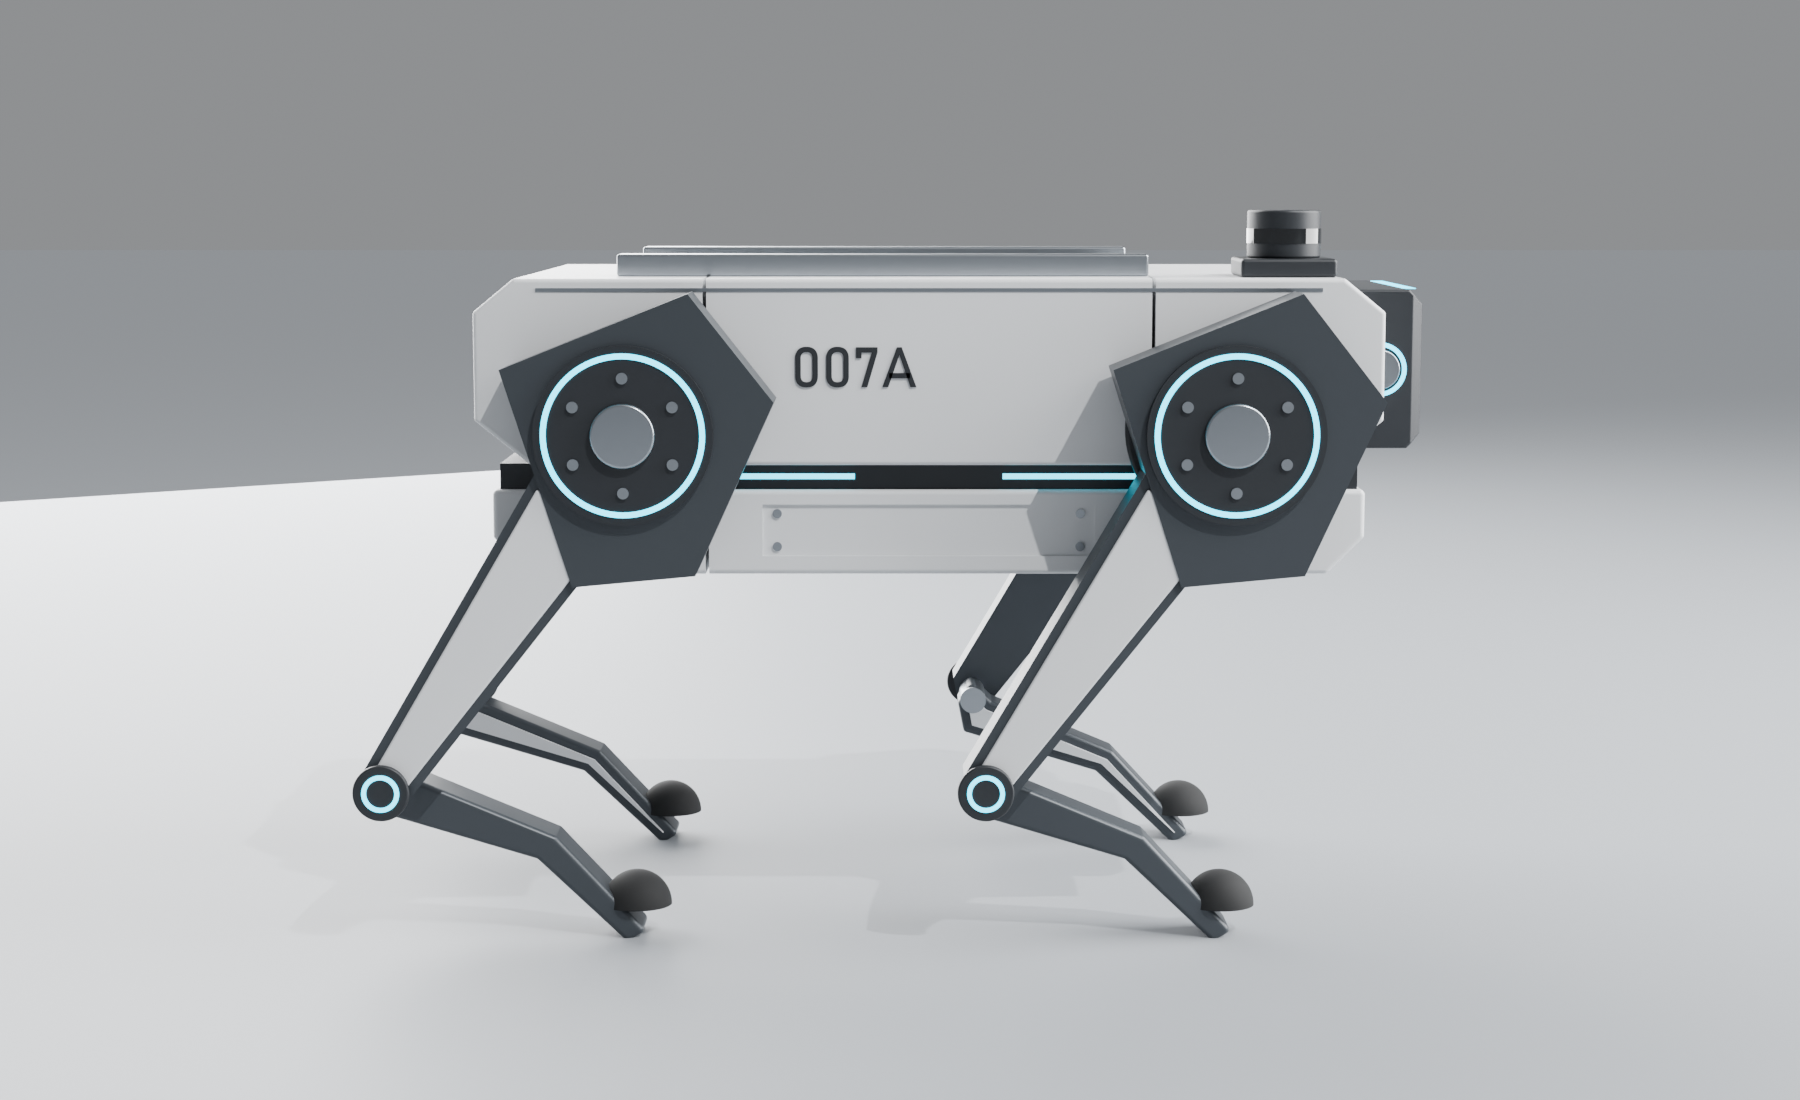
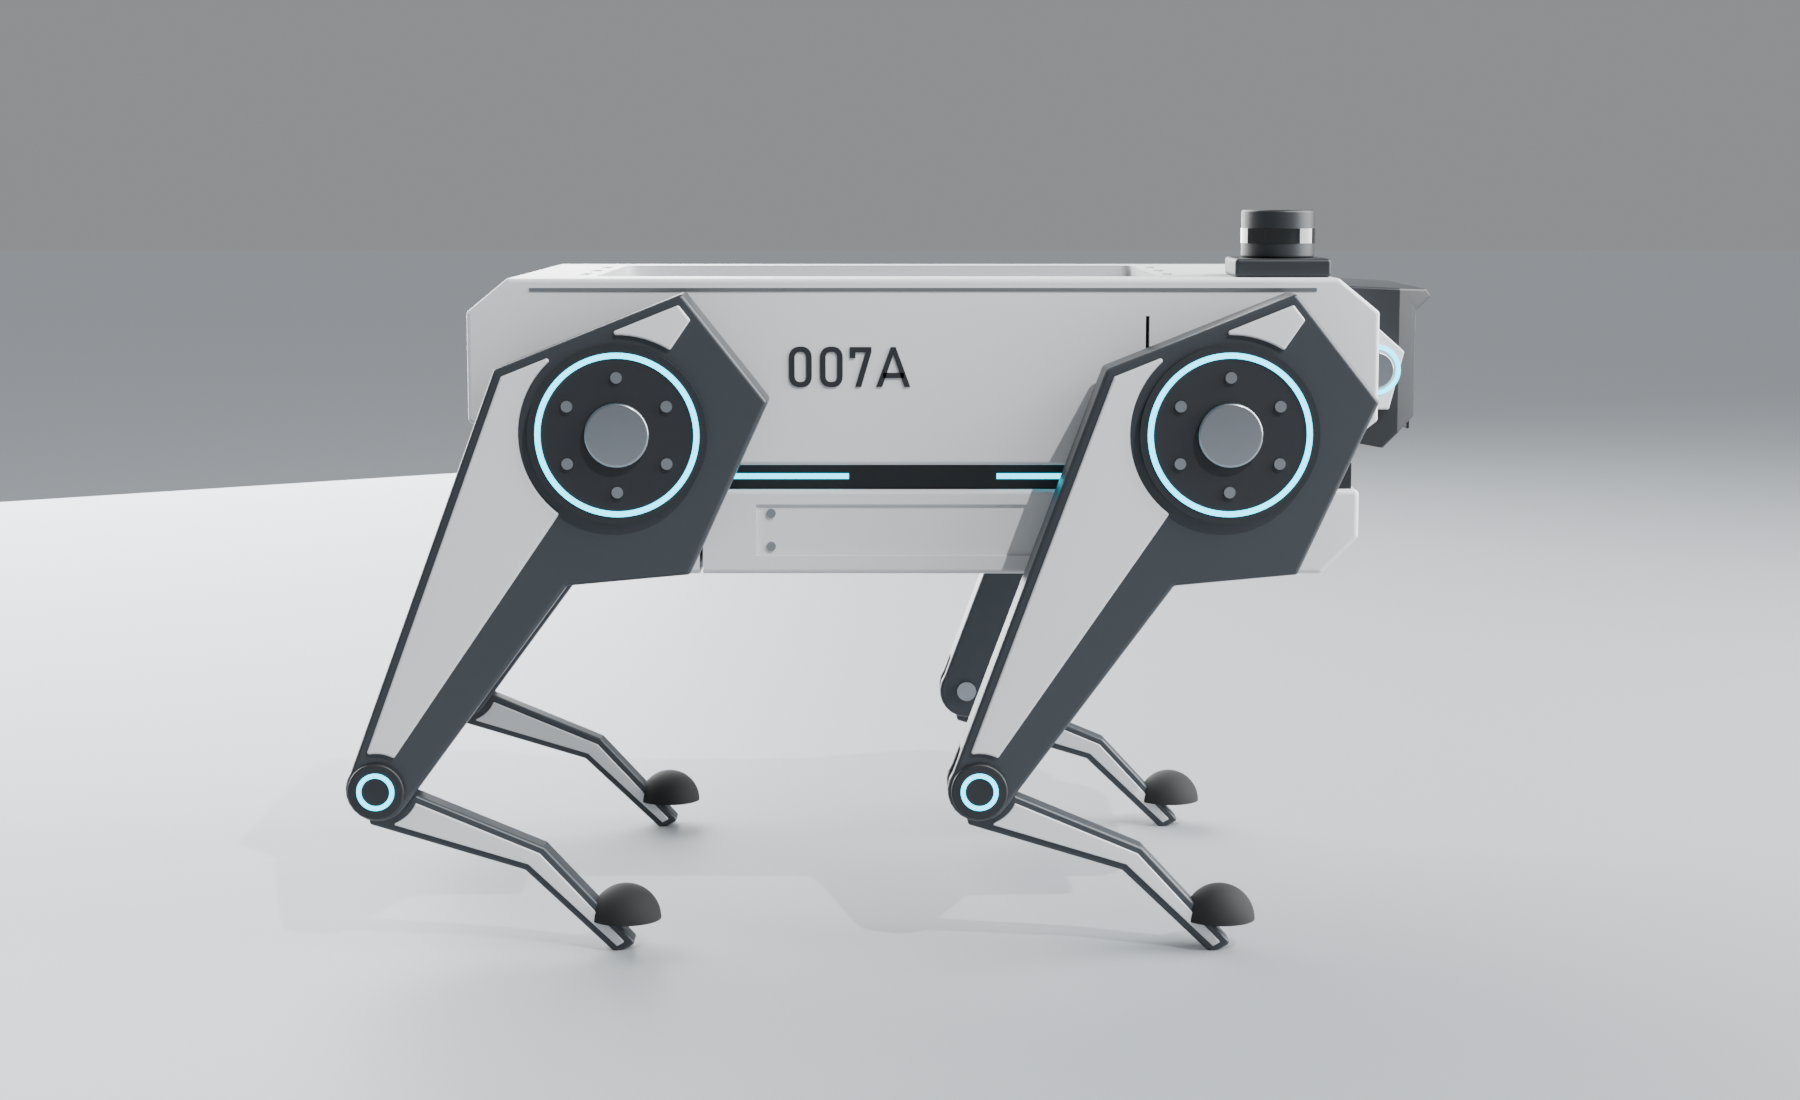
007A 外观 v3：楔形大腿照草图、上浅下深分色；小腿和大腿同一个面（膝盖叉口）；头加眉檐、收下巴、两侧耳鳍；背上一体货台

Changed region(s): [[0.1867, 0.2164, 0.6533, 0.8655], [0.4978, 0.1855, 0.8089, 0.8655]]

diff --git a/007a/model.py b/007a/model.py
@@ -37,7 +37,7 @@ Z0 = HIP_Z - BODY_H / 2                          # 机身底离地
 TUB_TOP, WAIST_TOP = Z0 + 46, Z0 + 60            # 下层底盘顶、黑腰顶（上层外壳 100 高，屏幕整块嵌进去）
 TOP = Z0 + BODY_H
 HUB_SK = [(-35, -33), (28, -33), (33, 38), (-4, 49), (-47, 8)]
-WR, WK = 30.0, 14.0                              # 大腿：根部半宽、膝那头半宽（v2：收窄，用户嫌大腿太大）
+RK = 17.0                                        # 大腿膝那头的圆头半径
 
 
 def _hub_scale():
@@ -54,7 +54,7 @@ HUB_F = _hub_scale()
 KNEE_TOP = [(303, 234), (311, 245), (313, 262)]
 KNEE_BOT = [(296, 266)]
 SHANK_SK = [(310, 250), (317, 265), (311, 285), (218, 303), (160, 348), (149, 340), (208, 288), (294, 262)]
-T_THIGH, T_SHANK = 38.0, 30.0
+T_THIGH, T_SHANK = 34.0, 16.0                    # v3：小腿插在大腿膝盖的叉口里，两段在同一个面上
 LEG_Y = W2 + 8 + T_THIGH / 2                     # 大腿中面离中线
 
 
@@ -114,30 +114,34 @@ def _rot(p, r):
 
 
 def leg_2d(foot=(0.0, -HIP_Z)):
-    """返回 (髋盘 多边形, 大腿臂 多边形, 小腿 多边形, 膝, 脚)。草图里膝朝右，这里膝朝后（-x），所以先把草图左右镜像。"""
+    """返回 (髋盘+大腿 多边形, 小腿 多边形, 膝, 脚)。草图里膝朝右，这里膝朝后（-x），所以先把草图左右镜像。"""
     knee = leg_ik(foot)
     sk = lambda p, o: (-(p[0] - o[0]), -(p[1] - o[1]))           # 草图 → 镜像 + y 朝上
     a_sk = math.atan2(*reversed(sk(K0, H0)))
     r = math.atan2(knee[1], knee[0]) - a_sk
-    hub = [_rot((-x * HUB_F, -y * HUB_F), r) for x, y in HUB_SK][::-1]
-    ang = math.atan2(knee[1], knee[0])                             # v2：大腿是一条从髋盘中心收到膝的臂，和髋盘一体
-    nx, nz = -math.sin(ang), math.cos(ang)
-    ux, uz = math.cos(ang), math.sin(ang)
+    hub = [_rot((-x * HUB_F, -y * HUB_F), r) for x, y in HUB_SK]
     kx, kz = knee
-    arm = [(nx * WR, nz * WR), (kx + nx * WK, kz + nz * WK), (kx + ux * WK, kz + uz * WK),
-           (kx - nx * WK, kz - nz * WK), (-nx * WR, -nz * WR)]
+    ang = math.atan2(kz, kx)
+    ux, uz = math.cos(ang), math.sin(ang)
+    nx, nz = -uz, ux
+    # v3：照草图的楔形大腿：上沿从髋盘右上角直通到膝，下沿从髋盘下面的缺口收到膝；膝那头是半圆（转轴在圆心）
+    sgn = 1 if (hub[1][0] * nx + hub[1][1] * nz) > 0 else -1      # 草图镜像后，髋盘第 2 个点在大腿哪一侧（那一侧是“上沿”）
+    f_top, f_u = math.atan2(sgn * nz, sgn * nx), math.atan2(uz, ux)
+    d = 1 if math.sin(f_u - f_top) > 0 else -1                     # 从上沿那侧绕过膝的外头，转到下沿那侧
+    arc = [(kx + RK * math.cos(f_top + d * math.pi * i / 12), kz + RK * math.sin(f_top + d * math.pi * i / 12)) for i in range(13)]
+    thigh = hub[:2] + arc + hub[2:]
 
     def at_knee(pts, rr):
         return [tuple(k + d for k, d in zip(knee, _rot((sk(p, K0)[0] * S, sk(p, K0)[1] * S), rr))) for p in pts]
     a_sh = math.atan2(*reversed(sk(T0, K0)))
     a_now = math.atan2(foot[1] - knee[1], foot[0] - knee[0])
     shank = at_knee(SHANK_SK, a_now - a_sh)
-    return hub, arm, shank[::-1], knee, foot
+    return thigh, shank, knee, foot
 
 
 def leg_parts(fx, sy):
     """一条腿（fx = 1 前 / -1 后，sy = 1 左 / -1 右）的零件，已放到机身上。"""
-    hub, arm, shank, knee, foot = leg_2d()
+    thigh, shank, knee, foot = leg_2d()
     hx, hz = fx * HIP_X, HIP_Z
     P = []
 
@@ -147,11 +151,21 @@ def leg_parts(fx, sy):
 
     yc = LEG_Y                                                     # 大腿中面（左边的腿；右边镜像）
     y_out = yc + T_THIGH / 2
-    th = prism_xz(hub, yc - T_THIGH / 2, y_out).fuse(prism_xz(arm, yc - T_THIGH / 2 + 3, y_out - 3)).clean()
-    th = soft(th, 3.0)
+    kx, kz = knee
+    th = prism_xz(thigh, yc - T_THIGH / 2, y_out)
+    slot = cq.Solid.makeCylinder(RK + 2, T_SHANK + 2, V(kx, yc - T_SHANK / 2 - 1, kz), V(0, 1, 0))   # 膝盖叉口：小腿插进去
+    th = soft(th.cut(slot.fuse(prism_xz(shank, yc - T_SHANK / 2 - 1, yc + T_SHANK / 2 + 1))), 2.5)
     P.append(("大腿", place(th, 0), "skel"))
-    cover = prism_xz_offset(arm, -5.0, y_out - 3.5, y_out - 0.5)      # 大腿臂的浅色外盖板（髋盘那段让出来）
-    cover = cover.cut(cyl_y(0, 0, MOTOR_D + 14, y_out - 5, y_out + 2))
+    # 浅色盖板只在大腿上半（沿 髋→膝 中线分开）：上浅下深，看着细、有动势
+    ang = math.atan2(kz, kx)
+    nx, nz = -math.sin(ang), math.cos(ang)
+    up = 1 if nz > 0 else -1
+    half = [(nx * up * 400 + math.cos(ang) * -400, nz * up * 400 + math.sin(ang) * -400),
+            (nx * up * 400 + math.cos(ang) * 400, nz * up * 400 + math.sin(ang) * 400),
+            (math.cos(ang) * 400 + nx * up * 2, math.sin(ang) * 400 + nz * up * 2),
+            (-math.cos(ang) * 400 + nx * up * 2, -math.sin(ang) * 400 + nz * up * 2)]
+    cover = prism_xz_offset(thigh, -5.0, y_out - 0.5, y_out + 2.0).intersect(prism_xz(half, y_out - 2, y_out + 4))
+    cover = cover.cut(cyl_y(0, 0, MOTOR_D + 12, y_out - 5, y_out + 6)).cut(cyl_y(kx, kz, 2 * RK + 6, y_out - 5, y_out + 6))
     P.append(("大腿外盖板", place(soft(cover, 1.2), 0), "shell"))
     # 髋盘外面：深色电机盖 + 青色光环 + 中心盖 + 6 颗螺栓
     P.append(("髋盖", place(cyl_y(0, 0, MOTOR_D + 2, y_out, y_out + 4), 0), "skel_dk"))
@@ -160,14 +174,14 @@ def leg_parts(fx, sy):
     for k in range(6):
         a = math.radians(30 + 60 * k)
         P.append((f"髋螺栓{k}", place(cyl_y(30 * math.cos(a), 30 * math.sin(a), 6, y_out + 4, y_out + 5.5), 0), "metal"))
-    # 小腿在大腿里侧；膝盖两面盖帽
-    ys0 = yc - T_THIGH / 2 - T_SHANK - 1
-    sh = soft(prism_xz(shank, ys0, ys0 + T_SHANK), 3.0)
+    # 小腿：和大腿同一个中面，插在叉口里；两面各贴一条浅色盖板
+    ys0 = yc - T_SHANK / 2
+    sh = soft(prism_xz(shank, ys0, ys0 + T_SHANK), 2.0)
     P.append(("小腿", place(sh, 0), "skel"))
-    sc = prism_xz_offset(shank, -6.0, ys0 - 2.5, ys0 + 0.5)          # 小腿里侧（朝机身）也贴一条浅色盖板
-    P.append(("小腿盖板", place(soft(sc, 1.0), 0), "shell"))
-    kx, kz = knee
-    P.append(("膝轴", place(cyl_y(kx, kz, 16, ys0 - 3, y_out + 3), 0), "metal"))
+    for y0, y1 in ((ys0 - 1.5, ys0 + 0.5), (ys0 + T_SHANK - 0.5, ys0 + T_SHANK + 1.5)):
+        sc = prism_xz_offset(shank, -4.0, y0, y1).cut(cyl_y(kx, kz, 2 * RK + 8, y0 - 1, y1 + 1))
+        P.append((f"小腿盖板{y0:.0f}", place(soft(sc, 0.6), 0), "shell"))
+    P.append(("膝轴", place(cyl_y(kx, kz, 12, yc - T_THIGH / 2 - 2, y_out + 3), 0), "metal"))
     P.append(("膝盖帽外", place(soft(cyl_y(kx, kz, 30, y_out, y_out + 4), 1.2), 0), "skel_dk"))
     P.append(("膝光点", place(ring_y(kx, kz, 20, 15, y_out + 4, y_out + 4.6), 0), "cyan"))
     fxp, fzp = foot
@@ -206,8 +220,9 @@ def body_parts():
                  (-L2 + 18, TOP), (-L2 - 4, TOP - 18), (-L2 - 4, WAIST_TOP + 24)]
     slab = prism_xz(slab_prof, -W2 - 2, W2 + 2)
     slab = soft(slab, 2.5)
-    for x in (-L2 + 120, L2 - 120):
-        slab = slab.cut(box(x - SEAM / 2, x + SEAM / 2, -W2 - 5, W2 + 5, WAIST_TOP - 1, TOP + 1))
+    for x in (-L2 + 120, L2 - 120):                                # 分缝只在两侧和前后，顶上留整块（货台是一体的）
+        for sy in (1, -1):
+            slab = slab.cut(box(x - SEAM / 2, x + SEAM / 2, *sorted((sy * (W2 - 30), sy * (W2 + 5))), WAIST_TOP - 1, TOP - 20))
     # 前脸：屏幕窗 + 两边各两道凹槽（照用户的前脸图）
     sw, sh = 124.0, 64.0                                           # 4.3 寸屏露出来的部分
     zc = WAIST_TOP + (TOP - WAIST_TOP) / 2 - 2
@@ -220,7 +235,19 @@ def body_parts():
             pts = [(y_in, z0), (y_end - sy * h, z0), (y_end, z1), (y_in + sy * h, z1)]   # 平行四边形：都往外上方斜
             slab = slab.cut(prism_yz(pts, L2 - 1, L2 + 10))
             grooves.append((sy, z0, pts))
+    BX0, BX1, BW, BD = -178.0, 128.0, 196.0, 14.0                    # 货台：凹下去 14
+    slab = slab.cut(soft(box(BX0, BX1, -BW / 2, BW / 2, TOP - BD, TOP + 5), 6.0))
+    for x in (BX0 - 9, BX1 + 9):                                   # 前后沿的绑带孔
+        for y in (-60, 0, 60):
+            slab = slab.cut(soft(box(x - 3, x + 3, y - 14, y + 14, TOP - 8, TOP + 5), 1.5))
     P.append(("上层甲板壳", slab, "shell"))
+    P.append(("货台底垫", box(BX0 + 4, BX1 - 4, -BW / 2 + 4, BW / 2 - 4, TOP - BD, TOP - BD + 2), "rubber"))
+    for k in range(9):                                             # 防滑筋
+        y = -BW / 2 + 22 + k * (BW - 44) / 8
+        P.append((f"货台筋{k}", soft(box(BX0 + 14, BX1 - 14, y - 2, y + 2, TOP - BD + 2, TOP - BD + 5), 0.8), "rubber"))
+    for x in (BX0 - 9, BX1 + 9):
+        for y in (-60, 0, 60):
+            P.append((f"绑带孔底{x:.0f}{y}", box(x - 3, x + 3, y - 14, y + 14, TOP - 8, TOP - 7), "skel_dk"))
     for sy, z0, pts in grooves:                                    # 凹槽里的深色内衬
         P.append((f"凹槽内衬{sy}{z0:.0f}", prism_yz(pts, L2 - 1.5, L2 + 0.8), "skel_dk"))
     for sy in (1, -1):
@@ -234,30 +261,36 @@ def body_parts():
         P.append((f"甲板边线{sy}", box(-L2 + 30, L2 - 30, *sorted((sy * (W2 + 2), sy * (W2 + 2.4))), TOP - 7, TOP - 5), "metal"))
     # ---- 头：深色屏幕模块从前脸往前伸 30，前面切角（像头盔面罩）；两侧金属圆盖 = 抬头低头的转轴
     hx0, hx1 = L2 + 4, L2 + 4 + HD
-    head = box(hx0 - 10, hx1, -HW / 2, HW / 2, zc - HH / 2, zc + HH / 2)
-    head = cq.Workplane().add(head).edges("|Y and >X").chamfer(8).val()
-    head = cq.Workplane().add(head).edges("|Z and >X").chamfer(6).val()
+    zb, zt = zc - HH / 2, zc + HH / 2
+    prof = [(hx0 - 10, zb + 4), (hx1 - 18, zb), (hx1, zb + 18), (hx1, zt - 12), (hx1 + 9, zt - 4), (hx1 + 6, zt),
+            (hx0 - 10, zt + 2)]                                      # 侧面：下巴往回收、眉檐往前探 9 mm
+    head = prism_xz(prof, -HW / 2, HW / 2)
+    for sy in (1, -1):                                             # 前面两侧切掉一个斜角（收窄）
+        tri = cq.Workplane("XY").polyline([(hx1 - 12, sy * (HW / 2 + 1)), (hx1 + 12, sy * (HW / 2 + 1)),
+                                            (hx1 + 12, sy * (HW / 2 - 13))]).close().extrude(HH + 20).val()
+        head = head.cut(tri.translate(V(0, 0, zb - 10)))
     head = soft(head, 1.5)
-    head = head.cut(box(hx1 - 3, hx1 + 1, -sw / 2, sw / 2, zc - sh / 2, zc + sh / 2))
+    head = head.cut(box(hx1 - 3, hx1 + 1, -sw / 2, sw / 2, zc - sh / 2 - 2, zc + sh / 2 - 2))
     P.append(("头", head, "skel_dk"))
-    P.append(("屏幕", box(hx1 - 3, hx1 - 1.5, -sw / 2, sw / 2, zc - sh / 2, zc + sh / 2), "glass"))
+    P.append(("头眉檐灯", box(hx1 + 2, hx1 + 8, -HW / 2 + 22, HW / 2 - 22, zt - 4.6, zt - 4.0), "cyan"))
+    for sy in (1, -1):                                             # 头两侧的鳍（装转轴的“耳朵”）
+        fin = prism_xz([(hx0 - 6, zc - 22), (hx0 + 14, zc - 22), (hx0 + 22, zc + 10), (hx0 + 4, zc + 26), (hx0 - 6, zc + 26)],
+                       *sorted((sy * HW / 2, sy * (HW / 2 + 6))))
+        P.append((f"头鳍{sy}", soft(fin, 1.2), "shell"))
+    P.append(("屏幕", box(hx1 - 3, hx1 - 1.5, -sw / 2, sw / 2, zc - sh / 2 - 2, zc + sh / 2 - 2), "glass"))
     for ey in (-30, 30):
         eye = cq.Workplane("YZ").rect(30, 24).extrude(0.4).edges("|X").fillet(6).val().translate(V(hx1 - 1.4, ey, zc + 4))
         P.append((f"眼睛{ey}", eye, "eye"))
     P.append(("屏幕下沿灯", box(hx1 - 1.3, hx1 - 0.9, -40, 40, zc - sh / 2 + 8, zc - sh / 2 + 10), "cyan"))
     for sy in (1, -1):
-        P.append((f"头转轴盖{sy}", soft(cyl_y(hx0 + 6, zc, 22, *sorted((sy * HW / 2, sy * (HW / 2 + 3)))), 0.8), "metal"))
-        P.append((f"头转轴光环{sy}", ring_y(hx0 + 6, zc, 30, 25, *sorted((sy * HW / 2, sy * (HW / 2 + 0.6)))), "cyan"))
-    P.append(("头上沿灯", box(hx1 - 9, hx1 - 2, -HW / 2 + 16, HW / 2 - 16, zc + HH / 2 - 0.2, zc + HH / 2 + 0.3), "cyan"))
+        P.append((f"头转轴盖{sy}", soft(cyl_y(hx0 + 6, zc, 20, *sorted((sy * (HW / 2 + 6), sy * (HW / 2 + 9)))), 0.8), "metal"))
+        P.append((f"头转轴光环{sy}", ring_y(hx0 + 6, zc, 28, 23, *sorted((sy * (HW / 2 + 6), sy * (HW / 2 + 6.6)))), "cyan"))
     # 激光雷达：人面对它看的左上角（= 机器人自己的右边，-y），照用户的前脸图
     lx, ly = L2 - 46, -(W2 - 40)
     P.append(("雷达座", soft(box(lx - 26, lx + 26, ly - 26, ly + 26, TOP, TOP + 10), 2.0), "skel_dk"))
     P.append(("雷达", soft(cq.Solid.makeCylinder(20, 26, V(lx, ly, TOP + 10)), 1.5), "skel_dk"))
     P.append(("雷达窗", cq.Solid.makeCylinder(20.4, 8, V(lx, ly, TOP + 18)).cut(cq.Solid.makeCylinder(19, 8, V(lx, ly, TOP + 18))), "glass"))
-    # ---- 背上：两条货物导轨 + 防滑垫
-    for sy in (1, -1):
-        P.append((f"货物导轨{sy}", soft(box(-170, 120, sy * 85 - 10, sy * 85 + 10, TOP, TOP + 12), 1.5), "metal"))
-    P.append(("防滑垫", soft(box(-160, 110, -70, 70, TOP, TOP + 3), 1.0), "rubber"))
+    # ---- 背上：货台已经做进上层甲板壳里了（见上面）
     # ---- 尾部：尾灯、急停、充电口
     for sy in (1, -1):
         P.append((f"尾灯{sy}", box(-L2 - 4.6, -L2 - 3.9, *sorted((sy * 50, sy * 110)), zc + 14, zc + 22), "red"))
